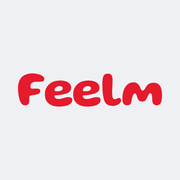
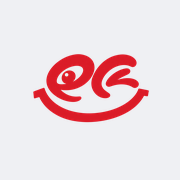
[S15P21E106-703] feat(fe): 리디자인한 로고와 스플래시 적용

Changed region(s): [[0.0833, 0.2778, 0.9167, 0.6944]]

diff --git a/frontend/src/components/SplashScreen/SplashScreen.module.css b/frontend/src/components/SplashScreen/SplashScreen.module.css
@@ -1,21 +1,20 @@
 /*
- * 스플래시 화면 (업무 S15P21E106-331). 구성은 확정 시안 2.8을 따른다
- * (`docs/screens/design-concept.md`).
+ * 스플래시 화면 (업무 S15P21E106-331). 그림은 리디자인한 로고의 스플래시 원본이다
+ * (업무 -703, 2026-09-19). 밝은 결 위 가운데에 심볼(`ee` 웃는 얼굴)이 하나 있다.
  *
- * 시안은 `Feelm 배경.png`(3D 안경 사진)를 **그대로** 쓰라고 정했다. 워드마크와
- * `YOUR TASTE ON FILM`이 사진 안에 이미 들어 있으므로 위에 로고를 겹쳐 올리지
- * 않는다. 겹쳐 올리면 같은 글자가 두 벌 보인다.
+ * 그림에 심볼이 이미 들어 있으므로 위에 로고를 겹쳐 올리지 않는다.
  */
 .splash {
   position: fixed;
   z-index: 1100; /* .preview-badge(1000)보다 위. 첫 화면에 목업 배지가 끼지 않게 한다 */
   inset: 0;
+  overflow: hidden;
   /*
-   * 사진이 디코드되기 전 한 프레임을 덮는 바탕이다. 사진 상단 2%의 실측 평균
-   * (R195 G196 B201)이라 사진이 뜨는 순간 색이 튀지 않는다. 앱 내부 배경
-   * (`--gradient-page`, G232)과는 값이 다르므로 그 토큰을 쓰지 않는다.
+   * 그림이 채우지 않는 위아래를 잇는 바탕이다. 그림의 위 · 아래 가장자리 실측 평균
+   * (R246 G249 B252 · R233 G237 B245)이라 이음새가 보이지 않는다. 그림이 디코드되기 전
+   * 한 프레임도 이 색이 덮는다.
    */
-  background: #c3c4c9;
+  background: linear-gradient(180deg, #f6f9fc 0%, #f4f7fb 50%, #e9edf5 100%);
   opacity: 1;
   transition: opacity var(--motion-emphasized) ease-out;
 }
@@ -31,25 +30,42 @@
 }
 
 /*
- * 사진은 화면을 빈틈없이 채운다(`object-fit: cover`). 잘리는 쪽을 정하는 값이
- * `object-position`의 65%다. 사진(853x1843, 세로/가로 2.16)에서 지켜야 할
- * 범위를 실측하면 안경 프레임이 위 16.3%, 태그라인 아래끝이 91.3%
- * (하단 여백 8.7%)에 있다.
+ * 그림은 **가로 16:9**(1920 × 1080)이고 심볼이 가로 25%를 차지한다(716 ~ 1198px).
  *
- * 세로가 짧은 기기에서 잘리는 총량 T = (2.16 - 화면비) / 2.16이고, 65%는 그중
- * 위에서 0.65T, 아래에서 0.35T를 잘라 낸다. 아래 여백 8.7%를 지키려면
- * 0.35T <= 0.087, 즉 **화면비 1.68까지** 태그라인이 온전하다. 가운데(50%)로
- * 두면 1.88까지만 버텨 16:9에서 태그라인이 잘린다.
+ * 세로 휴대폰을 꽉 채우게(cover) 두면 그림 가운데 약 1/4 폭만 남아 심볼 양끝이 화면 가장자리에
+ * 걸린다(412 × 915에서 보이는 폭 486px, 심볼 482px). 그래서 세로 화면에서는 그림 폭을 화면의
+ * 232%로 두어 **심볼이 화면 폭의 약 58%**가 되게 하고, 남는 위아래는 바탕이 잇는다. 그림 위아래
+ * 끝은 옅게 풀어 이음새를 없앤다(아래 미디어 쿼리).
  *
- * 실측(412x915 · 393x852 · 375x667)에서 워드마크·안경·태그라인이 모두 남고
- * 빈 띠도 생기지 않았다. 4:3(1.33)에서는 태그라인이 잘리는데, 태블릿 /
- * expanded width 대응은 `docs/screens/design-concept.md` 6장이 미확정·범위 밖으로
- * 두고 있어 여기서 정하지 않는다. 정해지면 이 값 대신 좌우를 채우는 방식이
- * 필요하다.
+ * 가로가 넓은 화면(PC)에서는 이 폭이 화면을 못 채우므로 꽉 채우는 폭(`177.78vh`, 16:9 cover)
+ * 으로 물러선다. 폭 = max(화면 폭, min(cover 폭, 화면 폭 × 2.32)).
  */
 .photo {
-  width: 100%;
-  height: 100%;
-  object-fit: cover;
-  object-position: center 65%;
+  position: absolute;
+  top: 50%;
+  left: 50%;
+  width: max(100vw, min(177.78vh, 232vw));
+  /* 화면보다 넓어야 한다. 전역 `img { max-width: 100% }`가 화면 폭으로 묶지 않게 푼다 */
+  max-width: none;
+  height: auto;
+  aspect-ratio: 16 / 9;
+  transform: translate(-50%, -50%);
+}
+
+/*
+ * 그림이 화면 높이보다 짧아지는 세로 화면에서만 위아래 끝을 풀어 바탕과 잇는다. 그림 높이는
+ * 232vw × 9/16이라 화면비(가로 ÷ 세로)가 0.766 이하일 때 화면보다 짧다(232vw < 177.78vh).
+ * 그림이 화면을 꽉 채우는 넓은 화면(PC · 16:9)에서 풀면 위아래가 괜히 흐려진다.
+ */
+@media (max-aspect-ratio: 766 / 1000) {
+  .photo {
+    -webkit-mask-image: linear-gradient(
+      180deg,
+      transparent 0%,
+      #000 14%,
+      #000 86%,
+      transparent 100%
+    );
+    mask-image: linear-gradient(180deg, transparent 0%, #000 14%, #000 86%, transparent 100%);
+  }
 }

diff --git a/frontend/index.html b/frontend/index.html
@@ -4,27 +4,25 @@
     <meta charset="UTF-8" />
     <meta name="viewport" content="width=device-width, initial-scale=1.0, viewport-fit=cover" />
     <!--
-      아이콘은 확정 로고(Gluten Bold 700 · 자간 -0.03em)의 `Feelm` 워드마크를 벡터로
-      추출해 만든 것이다(업무 S15P21E106-95). 서체 로딩과 무관하게 그려지도록 글리프
-      아웃라인을 path로 박았다. 바탕은 앱의 벽 색이고 글자는 브랜드 빨강이다.
-
-      파비콘까지 워드마크 전체로 통일했다(팀 결정 2026-09-10). 16px에서는 글자가
-      뭉개지지만 아이덴티티를 한 벌로 유지하는 쪽을 택했다.
+      아이콘은 리디자인한 로고의 심볼(`ee` 웃는 얼굴)이다(업무 S15P21E106-703, 2026-09-19).
+      디자인이 준 심볼 원본을 앱의 벽 색 위 가운데에 얹었다. 마크 폭은 캔버스의 66%라
+      Android maskable 아이콘의 안전 영역(지름 80% 원) 안에 들어간다. 32px 파비콘은 작은
+      크기에서 읽히도록 마크를 90%로 키웠다. 한때는 서체로 쓴 `Feelm` 워드마크 SVG
+      파비콘이었는데 그 로고를 폐기하며 지웠다 — 심볼은 벡터 원본이 없어 PNG만 둔다.
 
       PNG는 모서리를 둥글리지 않은 정사각이다. iOS · Android가 아이콘에 자체 마스크를
-      씌우므로 미리 깎으면 이중으로 깎이고 코너에 흰 자국이 남는다. 탭에 쓰는 SVG와
-      32px 파비콘만 둥글다.
+      씌우므로 미리 깎으면 이중으로 깎이고 코너에 흰 자국이 남는다. 탭에 쓰는 32px
+      파비콘만 둥글다.
 
       경로에 base(`/app/`)를 적지 않는다. Vite의 HTML 변환이 `/`로 시작하는 href에
-      base를 붙여 주므로, 소스의 `/favicon.svg`가 dev와 빌드 양쪽에서
-      `/app/favicon.svg`로 나간다. `%BASE_URL%`을 쓰면 치환된 `/app/` 위에 같은 변환이
+      base를 붙여 주므로, 소스의 `/favicon-32.png`가 dev와 빌드 양쪽에서
+      `/app/favicon-32.png`로 나간다. `%BASE_URL%`을 쓰면 치환된 `/app/` 위에 같은 변환이
       한 번 더 붙어 dev에서 `/app/app/...`이 된다.
 
       `manifest.webmanifest`는 `public/`에 있어 Vite가 변환하지 않는다. 그래서 그 안의
       `src`·`start_url`·`scope`는 매니페스트 자신의 URL을 기준으로 해석되는 상대 경로로
       적었다. 양쪽 모두 base를 문자열로 박지 않으므로 base가 바뀌어도 따라간다.
     -->
-    <link rel="icon" type="image/svg+xml" href="/favicon.svg" />
     <link rel="icon" type="image/png" sizes="32x32" href="/favicon-32.png" />
     <link rel="apple-touch-icon" sizes="180x180" href="/icon-180.png" />
     <link rel="manifest" href="/manifest.webmanifest" />

diff --git a/frontend/src/components/Wordmark/index.tsx b/frontend/src/components/Wordmark/index.tsx
@@ -1,25 +1,22 @@
 /*
  * Feelm 워드마크.
  *
- * 확정 로고는 **Gluten Bold 700 · 자간 -0.03em**이다
- * (`docs/screens/design-concept.md` 2.6). 이전에는 Kaushan Script 글리프를 path로
- * 박아 둔 SVG였으나, 그 서체는 폐기됐다.
+ * **리디자인한 로고다**(업무 S15P21E106-703, 2026-09-19). 필름 띠가 `F`와 `m`을 감고, 가운데
+ * `ee`가 웃는 얼굴인 손글씨 워드마크다. 디자인이 준 SVG 원본(`assets/logo/feelm-wordmark.svg`,
+ * 1358 × 657) 그대로다. 한때는 서체로 쓴 글자 워드마크였고 그 로고는 폐기했다.
  *
- * SVG가 아니라 텍스트로 그린다. 색은 `currentColor`를 따르므로 밝은 면과 어두운
- * 면 어디에나 올릴 수 있고, 크기를 바꿔도 선명하다. 아웃라인 SVG로 뽑으면 서체
- * 로딩과 무관해지지만, 지금은 Gluten을 번들에 포함하고 있어 텍스트로 충분하다.
+ * 원본은 빨강 한 색이라 **마스크로 칠한다.** 모양은 SVG가, 색은 CSS가 맡는다 — 기본은 브랜드
+ * 빨강이고 `inherit`이면 부모 글자색을 따라 어두운 면에도 올릴 수 있다. `<img>`로 넣으면 색을
+ * 바꿀 수 없다.
  *
- * `aria-label`을 붙여 스크린 리더가 한 단어로 읽게 한다. 자간을 좁혀 두어 글자
- * 단위로 끊어 읽힐 여지를 없앤다.
+ * 그림이라 `role="img"`와 `aria-label`로 한 단어로 읽힌다.
  */
 import styles from './Wordmark.module.css';
 
 type Props = {
   /**
-   * 글자 크기(px). 헤더 기본값은 22px이다.
-   *
-   * 확정 시안이 300px 폭 목업에서 18px을 썼다. 375px 기준으로 환산하면 22.5px이다.
-   * 이전 값 27px은 `--font-size-title`을 그대로 다러 쓴 것이었고 시안보다 컸다.
+   * 크기 기준(px). 한때 글자 크기였던 값을 그대로 받는다 — 워드마크의 높이는 이 값의 1.4배다.
+   * 헤더 기본값 22px이면 높이 약 31px · 폭 약 64px로 이전 글자 워드마크와 폭이 같다.
    *
    * 글자로 주면 CSS 길이다. 취향 4컷처럼 폭에 따라 커지는 자리에서 `calc()`를 넘긴다.
    */
@@ -37,9 +34,8 @@ export default function Wordmark({ size = 22, tone = 'brand' }: Props) {
       className={styles.wordmark}
       style={{ fontSize: size }}
       data-tone={tone}
+      role="img"
       aria-label="Feelm"
-    >
-      Feelm
-    </span>
+    />
   );
 }

diff --git a/frontend/src/components/SplashScreen/index.tsx b/frontend/src/components/SplashScreen/index.tsx
@@ -4,17 +4,17 @@
  * 라우트가 아니라 **첫 마운트에 한 번 뜨는 덮개**다. 홈이 `/`이므로 스플래시를
  * 라우트로 두면 진입 경로를 하나 빼앗기고, `/movies/5` 같은 딥링크로 들어온
  * 사람을 홈으로 돌려보내게 된다. 덮개로 두면 아래에서 원래 목적지가 그려지는
- * 동안 사진이 그것을 가린다.
+ * 동안 스플래시 그림이 그것을 가린다.
  *
  * 사라지는 조건은 둘을 모두 만족할 때다.
  *
- * - **준비**: 배경 사진이 디코드되고 서체가 로드됐다. 스플래시는 로딩을 가리는
- *   화면이므로 자기가 로딩을 만들면 안 된다. 사진이 뜨기 전에 걷히면 회색 판이
+ * - **준비**: 스플래시 그림이 디코드되고 서체가 로드됐다. 스플래시는 로딩을 가리는
+ *   화면이므로 자기가 로딩을 만들면 안 된다. 그림이 뜨기 전에 걷히면 빈 바탕이
  *   보이고, 서체 전에 걷히면 아래 화면 글자가 한 번 갈린다
  * - **최소 표시 시간**: 준비가 순간에 끝나도(두 번째 방문은 전부 캐시에 있다)
  *   화면이 깜빡이고 지나가지 않게 한다
  *
- * 사진 로드가 실패해도 준비된 것으로 본다. 배경이 없다고 앱 진입을 막을 수는
+ * 그림 로드가 실패해도 준비된 것으로 본다. 배경이 없다고 앱 진입을 막을 수는
  * 없다.
  *
  * **앱에 들어올 때만 뜬다**(업무 -681, 사용자 결정 2026-09-19). 한때 어느 화면에서든
@@ -126,7 +126,7 @@ export default function SplashScreen() {
       <img
         className={styles.photo}
         src={splashPhoto}
-        alt="Feelm — YOUR TASTE ON FILM"
+        alt="Feelm"
         fetchPriority="high"
         onLoad={() => setPhotoSettled(true)}
         onError={() => setPhotoSettled(true)}

diff --git a/frontend/src/styles/fonts.css b/frontend/src/styles/fonts.css
@@ -3,12 +3,14 @@
  *
  * | 용도 | 서체 | 근거 |
  * | --- | --- | --- |
- * | 로고 | Gluten Bold 700 | 확정 워드마크. **로고에만** 쓴다 |
  * | 취향 4컷의 큰 이름 | Anton 400 · Playfair Display 700 이탤릭 · 900 | 사용자 시안(2026-09-15, 업무 -321). **4컷 안에만** 쓴다 |
  * | 7.3 취향 4컷 목록의 연도 손글씨 | Caveat 700 | 사용자 시안(2026-09-15, 업무 -446). **연도 숫자에만** 쓴다 |
  * | 그 외 전부 | Pretendard | 중립적이라 로고가 돋보인다 |
  *
- * 둘 다 SIL OFL이라 임베딩과 상용에 제약이 없다.
+ * 로고는 서체가 아니라 그림이다(`assets/logo`, 업무 -703). 한때 서체로 쓴 글자였고
+ * 그 로고를 폐기하며 서체도 받지 않는다.
+ *
+ * 모두 SIL OFL이라 임베딩과 상용에 제약이 없다.
  *
  * 이전에는 `global.css`가 `IBM Plex Sans KR`을 지정만 하고 로드하지 않아, 실제
  * 화면은 시스템 기본 서체(Windows에서 맑은 고딕)로 그려지고 있었다. 그 선언을
@@ -18,14 +20,11 @@
  * 화면에 실제로 나온 글자가 속한 구간만 내려받는다. 전체를 받으면 무겁다.
  * Variable이라 400·500·600을 파일 하나로 처리한다.
  *
- * Gluten은 로고 한 단어에만 쓰므로 700 하나만 받는다.
- *
  * 4컷 서체는 영문 이름만 그리므로 **라틴 글자 파일만** 받는다. 한글 이름은 글리프가 없어
  * Pretendard로 넘어간다. 파일은 그 글자가 화면에 나올 때만 내려받는다.
  */
 
 @import 'pretendard/dist/web/variable/pretendardvariable-dynamic-subset.css';
-@import '@fontsource/gluten/700.css';
 @import '@fontsource/anton/latin-400.css';
 @import '@fontsource/playfair-display/latin-700-italic.css';
 @import '@fontsource/playfair-display/latin-900.css';

diff --git a/frontend/src/components/Wordmark/Wordmark.module.css b/frontend/src/components/Wordmark/Wordmark.module.css
@@ -1,25 +1,24 @@
 /*
- * 로고 전용 서체다. 본문에는 쓰지 않는다
- * (`docs/screens/design-concept.md` 2.6).
+ * 워드마크(업무 -703). SVG 원본을 마스크로 쓰고 면을 칠한다 — 모양은 원본, 색은 여기서 정한다.
  *
- * `line-height: 1`로 두어 크기를 준 만큼만 자리를 차지하게 한다. Gluten은
- * 통통해서 기본 행간을 두면 위아래 여백이 크게 생긴다.
+ * 크기는 `font-size`(컴포넌트의 `size`)를 기준으로 높이 1.4em이고 폭은 원본 비율(1358 : 657)을
+ * 따른다. `em`으로 두어야 부모가 준 크기(`calc()` 포함)를 그대로 따라간다.
  */
 .wordmark {
   display: inline-block;
-  font-family: var(--font-display);
-  font-weight: 700;
-  font-size: inherit;
-  letter-spacing: -0.03em;
-  line-height: 1;
-  color: var(--color-brand);
-  white-space: nowrap;
+  height: 1.4em;
+  flex: none;
+  aspect-ratio: 1358 / 657;
+  background-color: var(--color-brand);
+  vertical-align: middle;
+  -webkit-mask: url('../../assets/logo/feelm-wordmark.svg') center / contain no-repeat;
+  mask: url('../../assets/logo/feelm-wordmark.svg') center / contain no-repeat;
 }
 
 /*
  * 어두운 면이나 사진 위처럼 빨강이 안 읽히는 자리에서는 부모 색을 따르게 한다.
- * 스플래시가 이 경우다.
+ * 취향 4컷이 이 경우다.
  */
 .wordmark[data-tone='inherit'] {
-  color: inherit;
+  background-color: currentColor;
 }

diff --git a/frontend/src/pages/notifications/PushPreviewPage/index.tsx b/frontend/src/pages/notifications/PushPreviewPage/index.tsx
@@ -20,6 +20,7 @@ import { path } from '../../../routes/paths';
 import StatusView from '../../../components/StatusView';
 import { getLatestPushNotification, readNotification } from '../../../api/notifications';
 import { notificationPath } from '../destination';
+import appSymbol from '../../../assets/logo/feelm-symbol.webp';
 import styles from './PushPreviewPage.module.css';
 import type { NotificationItem } from '../../../types/notification';
 
@@ -80,8 +81,9 @@ export default function PushPreviewPage() {
 
             {notification ? (
               <button type="button" className={styles.card} onClick={() => void open(notification)}>
+                {/* 앱 아이콘과 같은 심볼이다(업무 -703). 장식이라 읽지 않는다 */}
                 <span className={styles.appIcon} aria-hidden="true">
-                  f
+                  <img className={styles.appSymbol} src={appSymbol} alt="" />
                 </span>
                 <span className={styles.cardText}>
                   <span className={styles.app}>feelm · 지금</span>

diff --git a/frontend/src/styles/tokens.css b/frontend/src/styles/tokens.css
@@ -12,7 +12,7 @@
  * | 빨강 | 표식 전용. 면적을 차지하지 않고 버튼 배경으로 쓰지 않는다 |
  * | 행동 | 검정 알약. 한 화면에 하나 |
  * | 팝콘 | 어두운 블록 안에서만. 밝은 면에서는 4종이 사라진다 |
- * | 서체 | 로고 Gluten · 그 외 Pretendard |
+ * | 서체 | Pretendard. 로고는 서체가 아니라 그림이다(`assets/logo`) |
  * | 모드 | 라이트 단일. 다크 모드는 만들지 않는다 |
  *
  * **위 표에 예외가 둘 생겼다**(사용자 시안 2026-09-17, 업무 -458). 각각의 사유와
@@ -276,8 +276,6 @@
   --font-sans:
     'Pretendard Variable', Pretendard, -apple-system, BlinkMacSystemFont, 'Apple SD Gothic Neo',
     'Malgun Gothic', sans-serif;
-  /* 로고 전용. 본문에 쓰지 않는다 */
-  --font-display: 'Gluten', var(--font-sans);
   /* 취향 4컷 전용(업무 -321). 영문은 이 서체, 한글은 Pretendard로 넘어간다 */
   --font-report-condensed: 'Anton', var(--font-sans);
   --font-report-serif: 'Playfair Display', Georgia, var(--font-sans);

diff --git a/frontend/src/pages/notifications/PushPreviewPage/PushPreviewPage.module.css b/frontend/src/pages/notifications/PushPreviewPage/PushPreviewPage.module.css
@@ -56,11 +56,13 @@
   align-items: center;
   justify-content: center;
   border-radius: 9px;
-  background: var(--color-on-dark);
-  color: var(--color-surface-dark);
-  font-family: var(--font-display);
-  font-size: 20px;
-  font-weight: var(--font-weight-bold);
+  /* 앱 아이콘과 같은 벽 색 위 심볼이다(`public/icon-*.png`, 업무 -703) */
+  background: var(--color-bg);
+}
+
+.appSymbol {
+  width: 70%;
+  height: auto;
 }
 
 .cardText {

diff --git a/frontend/src/components/SplashScreen/SplashScreen.test.tsx b/frontend/src/components/SplashScreen/SplashScreen.test.tsx
@@ -30,7 +30,7 @@ async function flush() {
 }
 
 function photo() {
-  return screen.getByAltText('Feelm — YOUR TASTE ON FILM');
+  return screen.getByAltText('Feelm');
 }
 
 function splash() {
